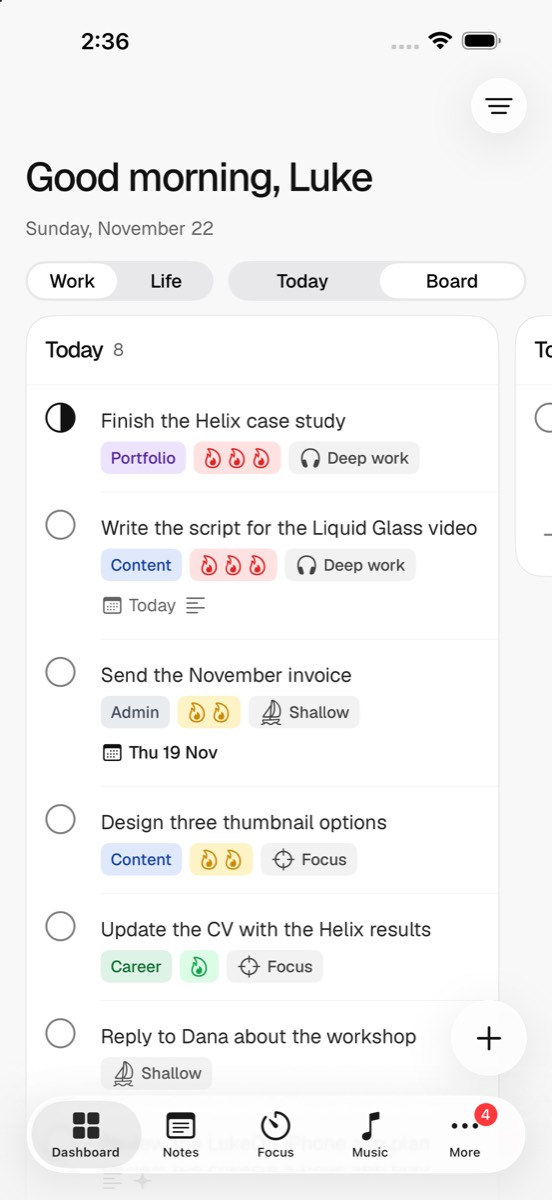
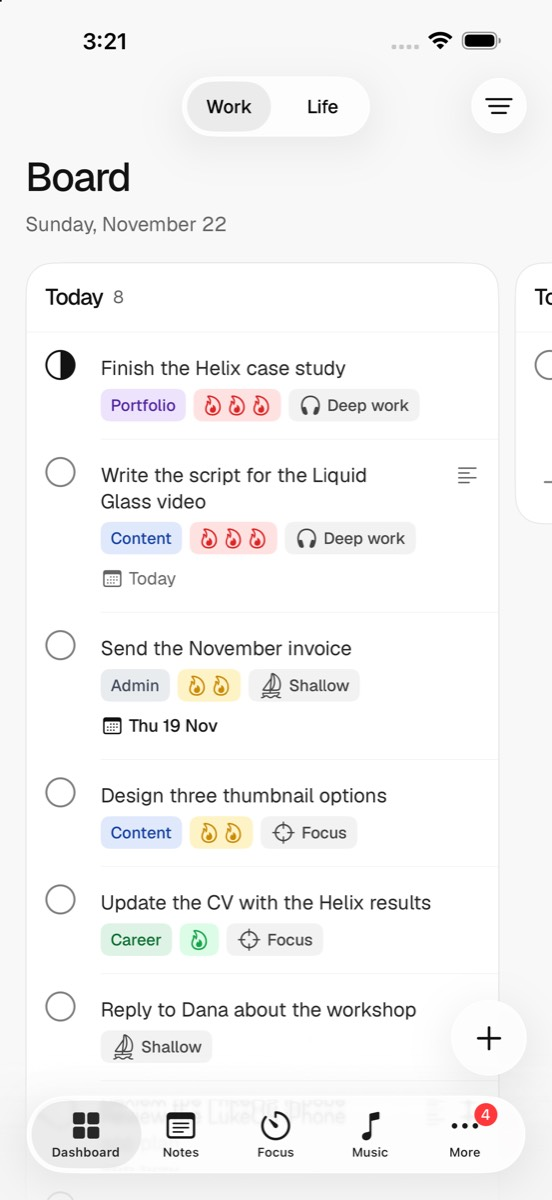
iPhone app: Dashboard header (audit item 1)
Large title Today (Board on the board), the date as one quiet line under it,
Work | Life in the top bar, Today | Board as the first section of the filter
menu. The greeting and the switch row are gone, so the first card starts
higher.

diff --git a/ios/LukeOS/Features/Dashboard/DashboardScreen.swift b/ios/LukeOS/Features/Dashboard/DashboardScreen.swift
@@ -1,7 +1,8 @@
 import SwiftUI
 
-/// The home screen: the date and a greeting, Work | Life and Today | Board,
-/// then Today's cards (Life: Morning, Day, Evening; Work: Signal, Noise) or the board.
+/// The home screen, titled Today with the date under it. Work | Life sits in the top bar and
+/// Today | Board in the filter menu, so the first screen is the tasks themselves.
+/// Today's cards: Life has Morning, Day, Evening; Work has Signal, Noise.
 struct DashboardScreen: View {
     @Environment(AppModel.self) private var app
     @State private var store = TaskStore.shared
@@ -16,8 +17,9 @@ struct DashboardScreen: View {
             Group {
                 if layout == "board" {
                     ScrollView {
-                        header(inList: false)
+                        dateLine.padding(.horizontal, Space.page)
                         BoardView(tasks: areaTasks, onOpen: { editing = $0 })
+                            .padding(.top, Space.s)
                     }
                 } else {
                     todayList
@@ -25,10 +27,14 @@ struct DashboardScreen: View {
             }
             .pageBackground()
             .toolbar {
-                ToolbarItem(placement: .topBarTrailing) { FiltersMenu() }
+                ToolbarItem(placement: .principal) { areaPicker.frame(width: Size.areaSwitch) }
+                ToolbarItem(placement: .topBarTrailing) { FiltersMenu(layout: $layout) }
             }
-            .navigationTitle(greeting)
+            .navigationTitle(layout == "board" ? "Board" : "Today")
             .toolbarTitleDisplayMode(.large)
+            .onChange(of: layout) { _, new in
+                Task { await Repo.change("set_dashboard_view", ["layout": .string(new)]) }
+            }
             .refreshable { await reload() }
             .overlay(alignment: .bottomTrailing) { addButton }
             .sheet(item: $editing) { task in
@@ -65,11 +71,6 @@ struct DashboardScreen: View {
 
     // MARK: Header
 
-    private var greeting: String {
-        let h = Calendar.current.component(.hour, from: .now)
-        return h < 12 ? "Good morning, Luke" : h < 18 ? "Good afternoon, Luke" : "Good evening, Luke"
-    }
-
     private var areaPicker: some View {
         @Bindable var app = app
         return Picker("Area", selection: $app.area.animation(.snappy)) {
@@ -78,49 +79,18 @@ struct DashboardScreen: View {
         .pickerStyle(.segmented)
     }
 
-    private var layoutPicker: some View {
-        Picker("Layout", selection: $layout.animation(.snappy)) {
-            Text("Today").tag("list")
-            Text("Board").tag("board")
-        }
-        .pickerStyle(.segmented)
-    }
-
-    /// In the list, rows already sit inside the list's margin; on the board they don't.
-    private func header(inList: Bool) -> some View {
-        @Bindable var app = app
-        return VStack(alignment: .leading, spacing: Space.l) {
-            Text(Date.now.formatted(.dateTime.weekday(.wide).month(.wide).day()))
-                .textStyle(.preview, color: .mutedText)
-            // Side by side; stacked when the text is set very large.
-            ViewThatFits(in: .horizontal) {
-                HStack(spacing: Space.m) {
-                    areaPicker.frame(width: Size.areaSwitch)
-                    layoutPicker
-                }
-                VStack(spacing: Space.s) {
-                    areaPicker
-                    layoutPicker
-                }
-            }
-            .onChange(of: layout) { _, new in
-                Task { await Repo.change("set_dashboard_view", ["layout": .string(new)]) }
-            }
-        }
-        .frame(maxWidth: .infinity, alignment: .leading)
-        .padding(.horizontal, inList ? Space.xs : Space.page)
-        .padding(.top, Space.xs)
-        .padding(.bottom, Space.xs)
+    /// The date, quietly, under the large title.
+    private var dateLine: some View {
+        Text(Date.now.formatted(.dateTime.weekday(.wide).month(.wide).day()))
+            .textStyle(.control, color: .mutedText)
+            .frame(maxWidth: .infinity, alignment: .leading)
     }
 
     // MARK: Today
 
     private var todayList: some View {
         List {
-            Section {
-                header(inList: true).controlRow()
-            }
-
+            Section { dateLine.padding(.horizontal, Space.xs).controlRow() }
             if !store.loaded && store.tasks.isEmpty {
                 ProgressView().frame(maxWidth: .infinity).listRowBackground(Color.clear)
             } else if let error = store.error, store.tasks.isEmpty {

diff --git a/ios/LukeOS/Features/Tasks/QuickAdd.swift b/ios/LukeOS/Features/Tasks/QuickAdd.swift
@@ -91,12 +91,19 @@ struct SmartChips: View {
 
 /// Which statuses the dashboard shows, and how it's sorted. Shared with every device.
 struct FiltersMenu: View {
+    /// Today or Board.
+    @Binding var layout: String
     @State private var store = TaskStore.shared
 
     private let sortKeys: [(String, String)] = [("priority", "Priority"), ("effort", "Focus type"), ("project", "Project"), ("name", "Name"), ("created", "Date added")]
 
     var body: some View {
         Menu {
+            Picker("View", selection: $layout.animation(.snappy)) {
+                Label("Today", systemImage: "list.bullet").tag("list")
+                Label("Board", systemImage: "rectangle.split.3x1").tag("board")
+            }
+            .pickerStyle(.inline)
             Section("Show") {
                 ForEach(TaskStatus.allCases, id: \.self) { s in
                     Toggle(s.label, isOn: Binding(
